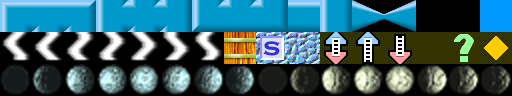
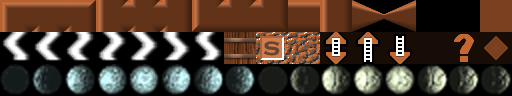
Copper chrome for the Standard set; Lairware keeps the teal
The Standard UI sheet (frame, caps, cursor) is LairWare's teal sheet
recoloured to copper at 60% lightness, hue 22, saturation scaled to
0.6, the moon row untouched. The teal sheet becomes Lairware-UI.png,
so the two sets tell apart at a glance and Lairware looks as it did.
The PC sets, which borrow Standard's UI, take the copper too. The
extractor files LairWare's sheet under the Lairware name.

Claude-Session: https://claude.ai/code/session_013fzjLXvyH1ATjhYrYXYjzx

diff --git a/web/tools/extract-resources.ts b/web/tools/extract-resources.ts
@@ -175,7 +175,9 @@ function main(): void {
     for (const file of readdirSync(join(RESOURCES, src))) {
       if (file.startsWith('_') || file.startsWith('.')) continue;
       // "&" cannot travel in a URL safely: "Macintosh B&W-Tiles.gif" is served as "Macintosh BW-Tiles.gif" (see fileStem in graphics.ts).
-      copyFileSync(join(RESOURCES, src, file), join(OUT, dst, file.replace(/&/g, '')));
+      // LairWare's teal UI sheet is the Lairware set's; the Standard set's is a copper recolour of it kept in public/graphics.
+      const name = file === 'Standard-UI.png' ? 'Lairware-UI.png' : file.replace(/&/g, '');
+      copyFileSync(join(RESOURCES, src, file), join(OUT, dst, name));
     }
   }
 

diff --git a/web/README.md b/web/README.md
@@ -381,6 +381,11 @@ save contains except the pooled gold and food.
   directly. A set that ships a Mask file is still honoured; a set with
   neither draws creatures opaque, as its machine did. LairWare's original
   files remain in `Resources/Graphics` at the root of the repository.
+- **Copper chrome for Standard.** LairWare's frame, caps and cursor are
+  a bright teal that competes with the grass and water; the Standard set
+  (and the PC sets, which borrow its UI sheet) use the same pieces
+  recoloured to a darker copper, a warm complement that recedes behind
+  the map. The Lairware set keeps the teal.
 - **Appearance**: the classic bitmap-font layout is used throughout; any of
   the thirteen tile sets (with their fonts, borders and dungeon art) can be chosen in
   Settings, Standard by default.
